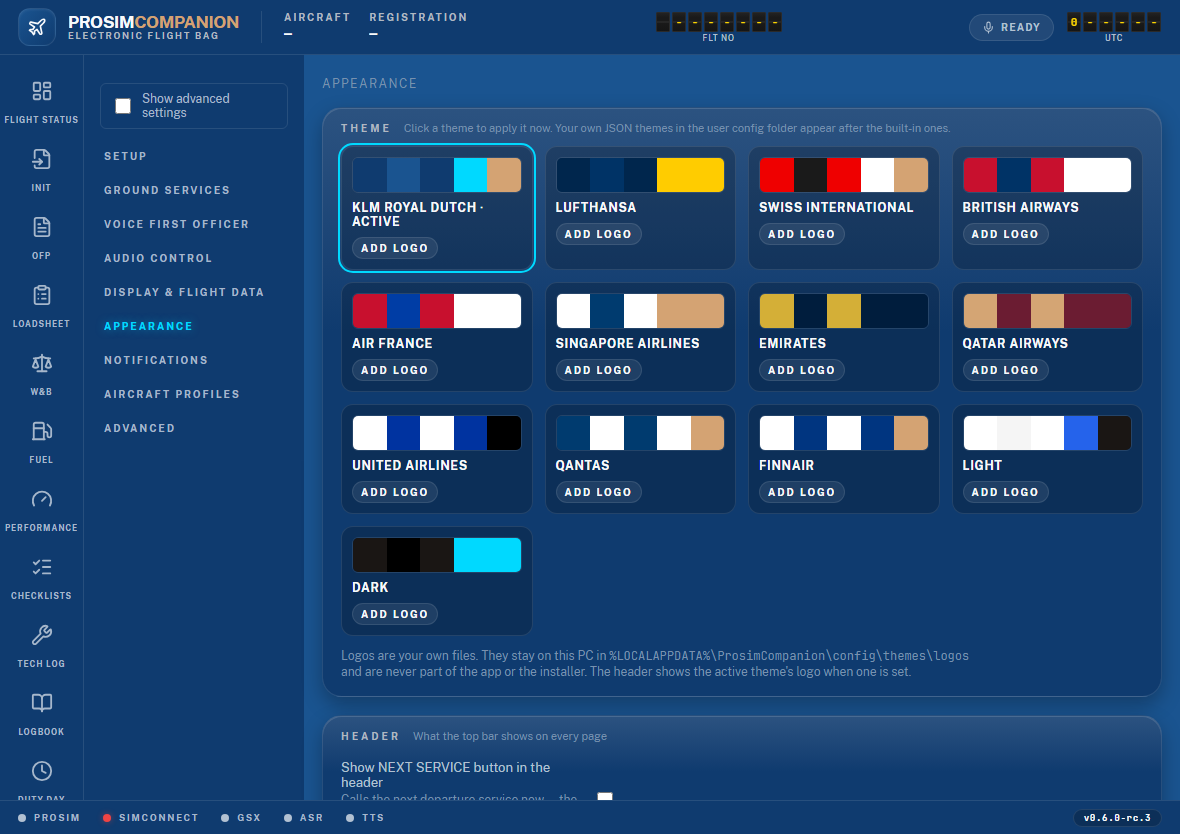
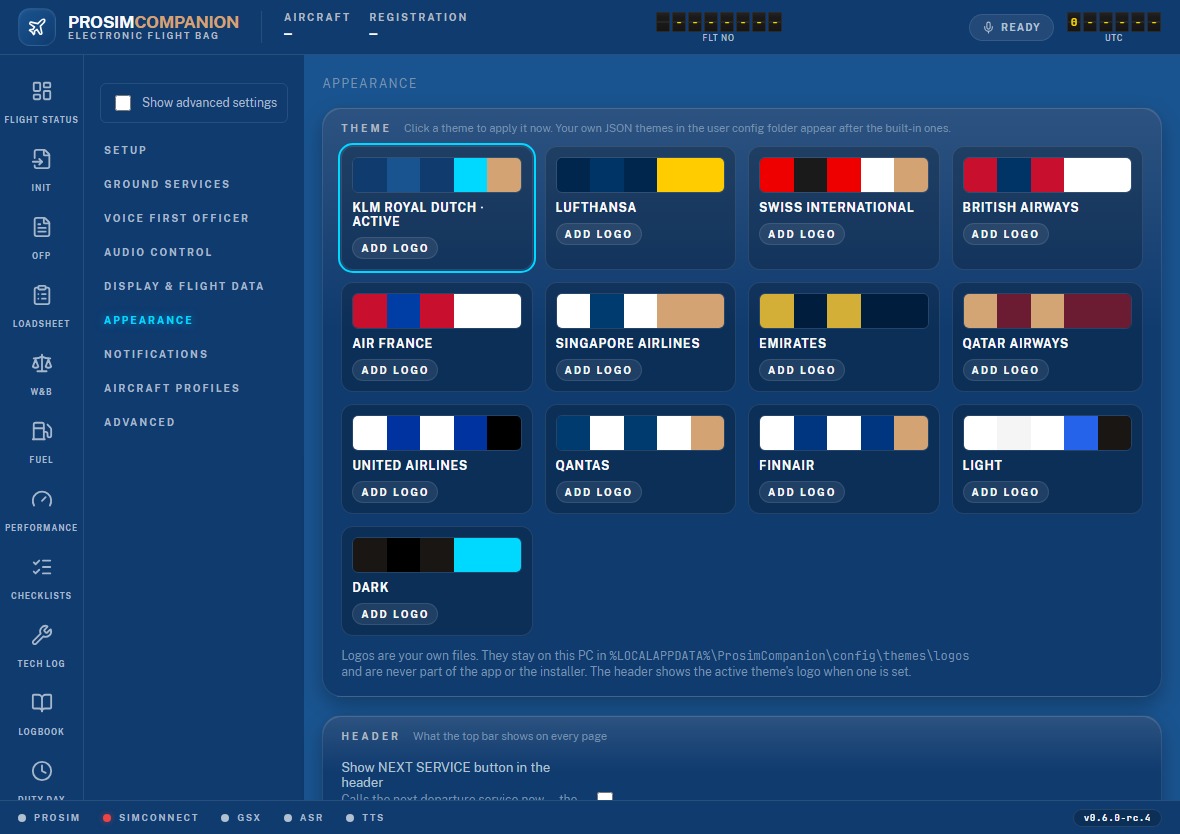
Appearance → Screen & Install: a Viewport line (window / screen / safe-area / display mode / shell height) for the iPad home-screen band report; refresh every screenshot at 0.6.0-rc.4

diff --git a/src/ProsimCompanion.Web/wwwroot/js/app.js b/src/ProsimCompanion.Web/wwwroot/js/app.js
@@ -43,6 +43,33 @@
     return d.toISOString().substring(11, 19) + "Z";
   }
 
+  // The geometry facts for the Appearance card (iPad home-screen app, owner screenshots
+  // 2026-10-03: black bands above the header and below the footer). One line that says what
+  // the web view was given versus the screen, and what the safe-area insets read.
+  function viewportFacts() {
+    const probe = document.createElement("div");
+    probe.style.cssText = "position:fixed;top:0;left:0;visibility:hidden;pointer-events:none;"
+      + "padding-top:env(safe-area-inset-top,0px);padding-bottom:env(safe-area-inset-bottom,0px);";
+    document.body.appendChild(probe);
+    const cs = getComputedStyle(probe);
+    const facts = {
+      innerWidth: window.innerWidth,
+      innerHeight: window.innerHeight,
+      outerHeight: window.outerHeight,
+      screenWidth: screen.width,
+      screenHeight: screen.height,
+      visualHeight: window.visualViewport ? Math.round(window.visualViewport.height) : null,
+      dpr: window.devicePixelRatio,
+      safeTop: cs.paddingTop,
+      safeBottom: cs.paddingBottom,
+      displayMode: (window.matchMedia && window.matchMedia("(display-mode: standalone)").matches) ? "standalone"
+        : (window.matchMedia && window.matchMedia("(display-mode: fullscreen)").matches) ? "fullscreen" : "browser",
+      appHeight: (document.querySelector(".app") || {}).offsetHeight || null,
+    };
+    probe.remove();
+    return facts;
+  }
+
   function wakeState() {
     if (!wakeWanted) return "off";
     if (!window.isSecureContext) return "needs-https";
@@ -107,6 +134,7 @@
         acquiredAt: wakeAcquiredAt,
         releasedAt: wakeReleasedAt,
         attempts: wakeAttempts,
+        viewport: viewportFacts(),
       };
     },
     setWanted: function (wanted) {
